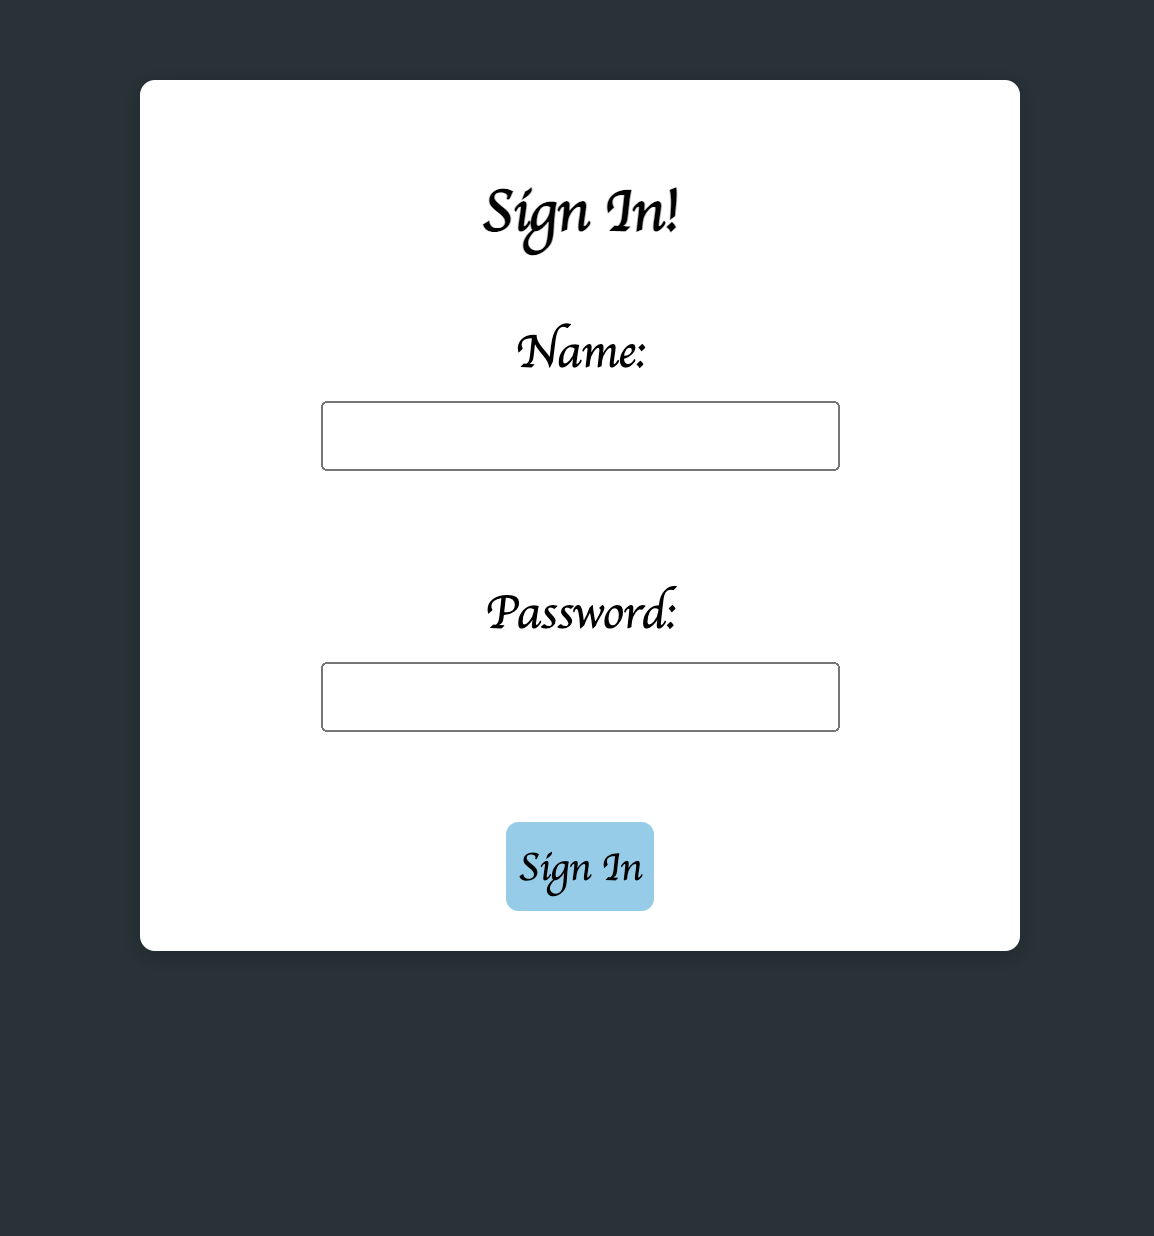
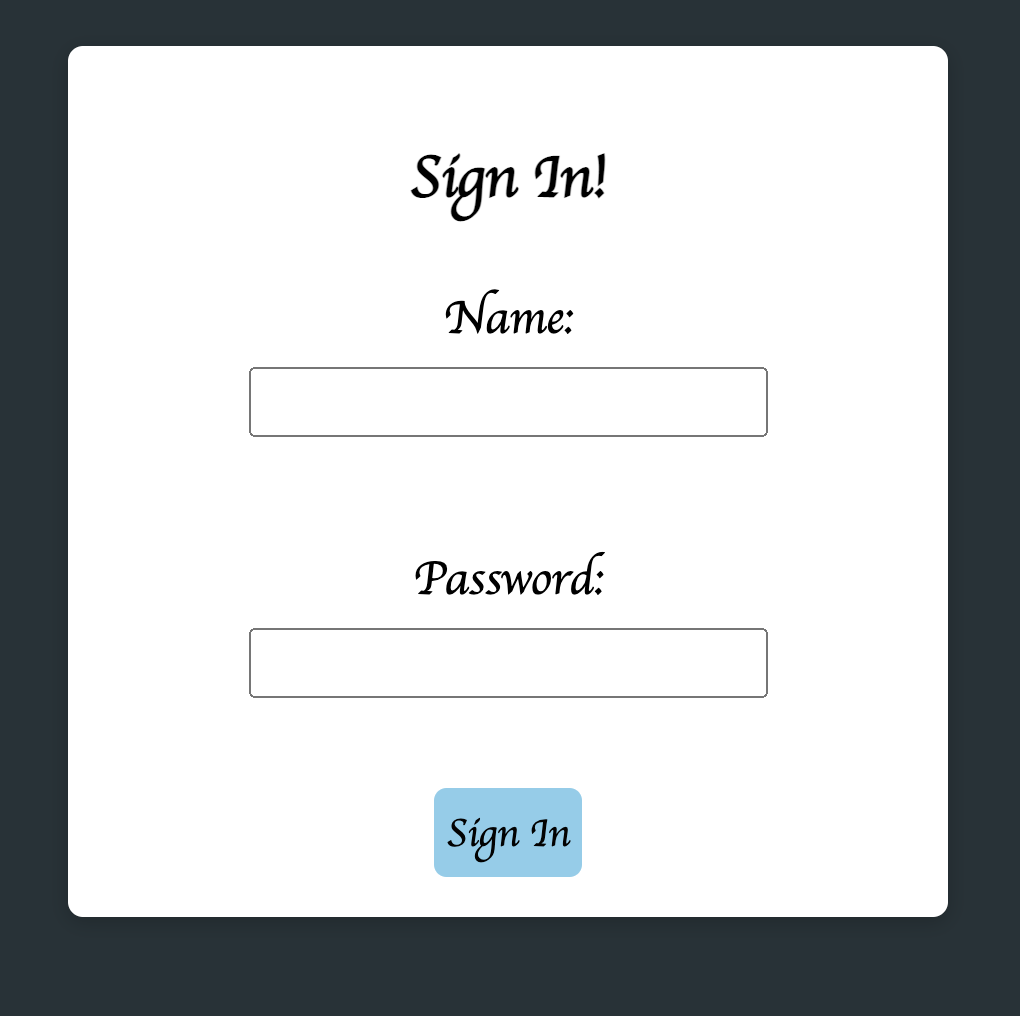
update

diff --git a/README.md b/README.md
@@ -1,5 +1,5 @@
 # Project Catan
-![CTS](https://github.com/MuyanXie/ProjectCatan/blob/main/Pictures/CTS.png)
+![CTS](Pictures/CTS.png)
 
 This project aims to promote an online room trading platform for the Catan Table games. Originally, within the game, the only trading mode is face-to-face instant trades. This platform tries to integrate more refined financial trading deals, such as Futures and Options, among the five resources: Lumber, Wool, Grain, Brick, Ore.
 
@@ -44,13 +44,14 @@ npm start # launching the frontend
 Opening your brower, you will be able to see the home page at http://localhost:3000/
 
 ## Using the Website:
-![register](https://github.com/MuyanXie/ProjectCatan/blob/main/Pictures/Register.png) ![signin](https://github.com/MuyanXie/ProjectCatan/blob/main/Pictures/Signin.png)
 
-<p float="middle">
-  <img src="Pictures/Register.png" width="100" height = "170"/>
-  <img src="Pictures/Signin.png" width="100" height = "170"/> 
+<p>
+  <img src="Pictures/Register.png" width="50%" height = "400" style = "margin : auto"/>
 </p>
 
+<p>
+  <img src="Pictures/Signin.png" width="50%" height = "300"/> 
+</p>
 ## REST API Documentation:
 A Maven repository dependency *Open Api Documentation* has been embeded into pom.xml file in the Spring Boot Backend. You can access the api documentation file easily at http://localhost:8080/swagger-ui/index.html after launching the backend in local environment.
 
